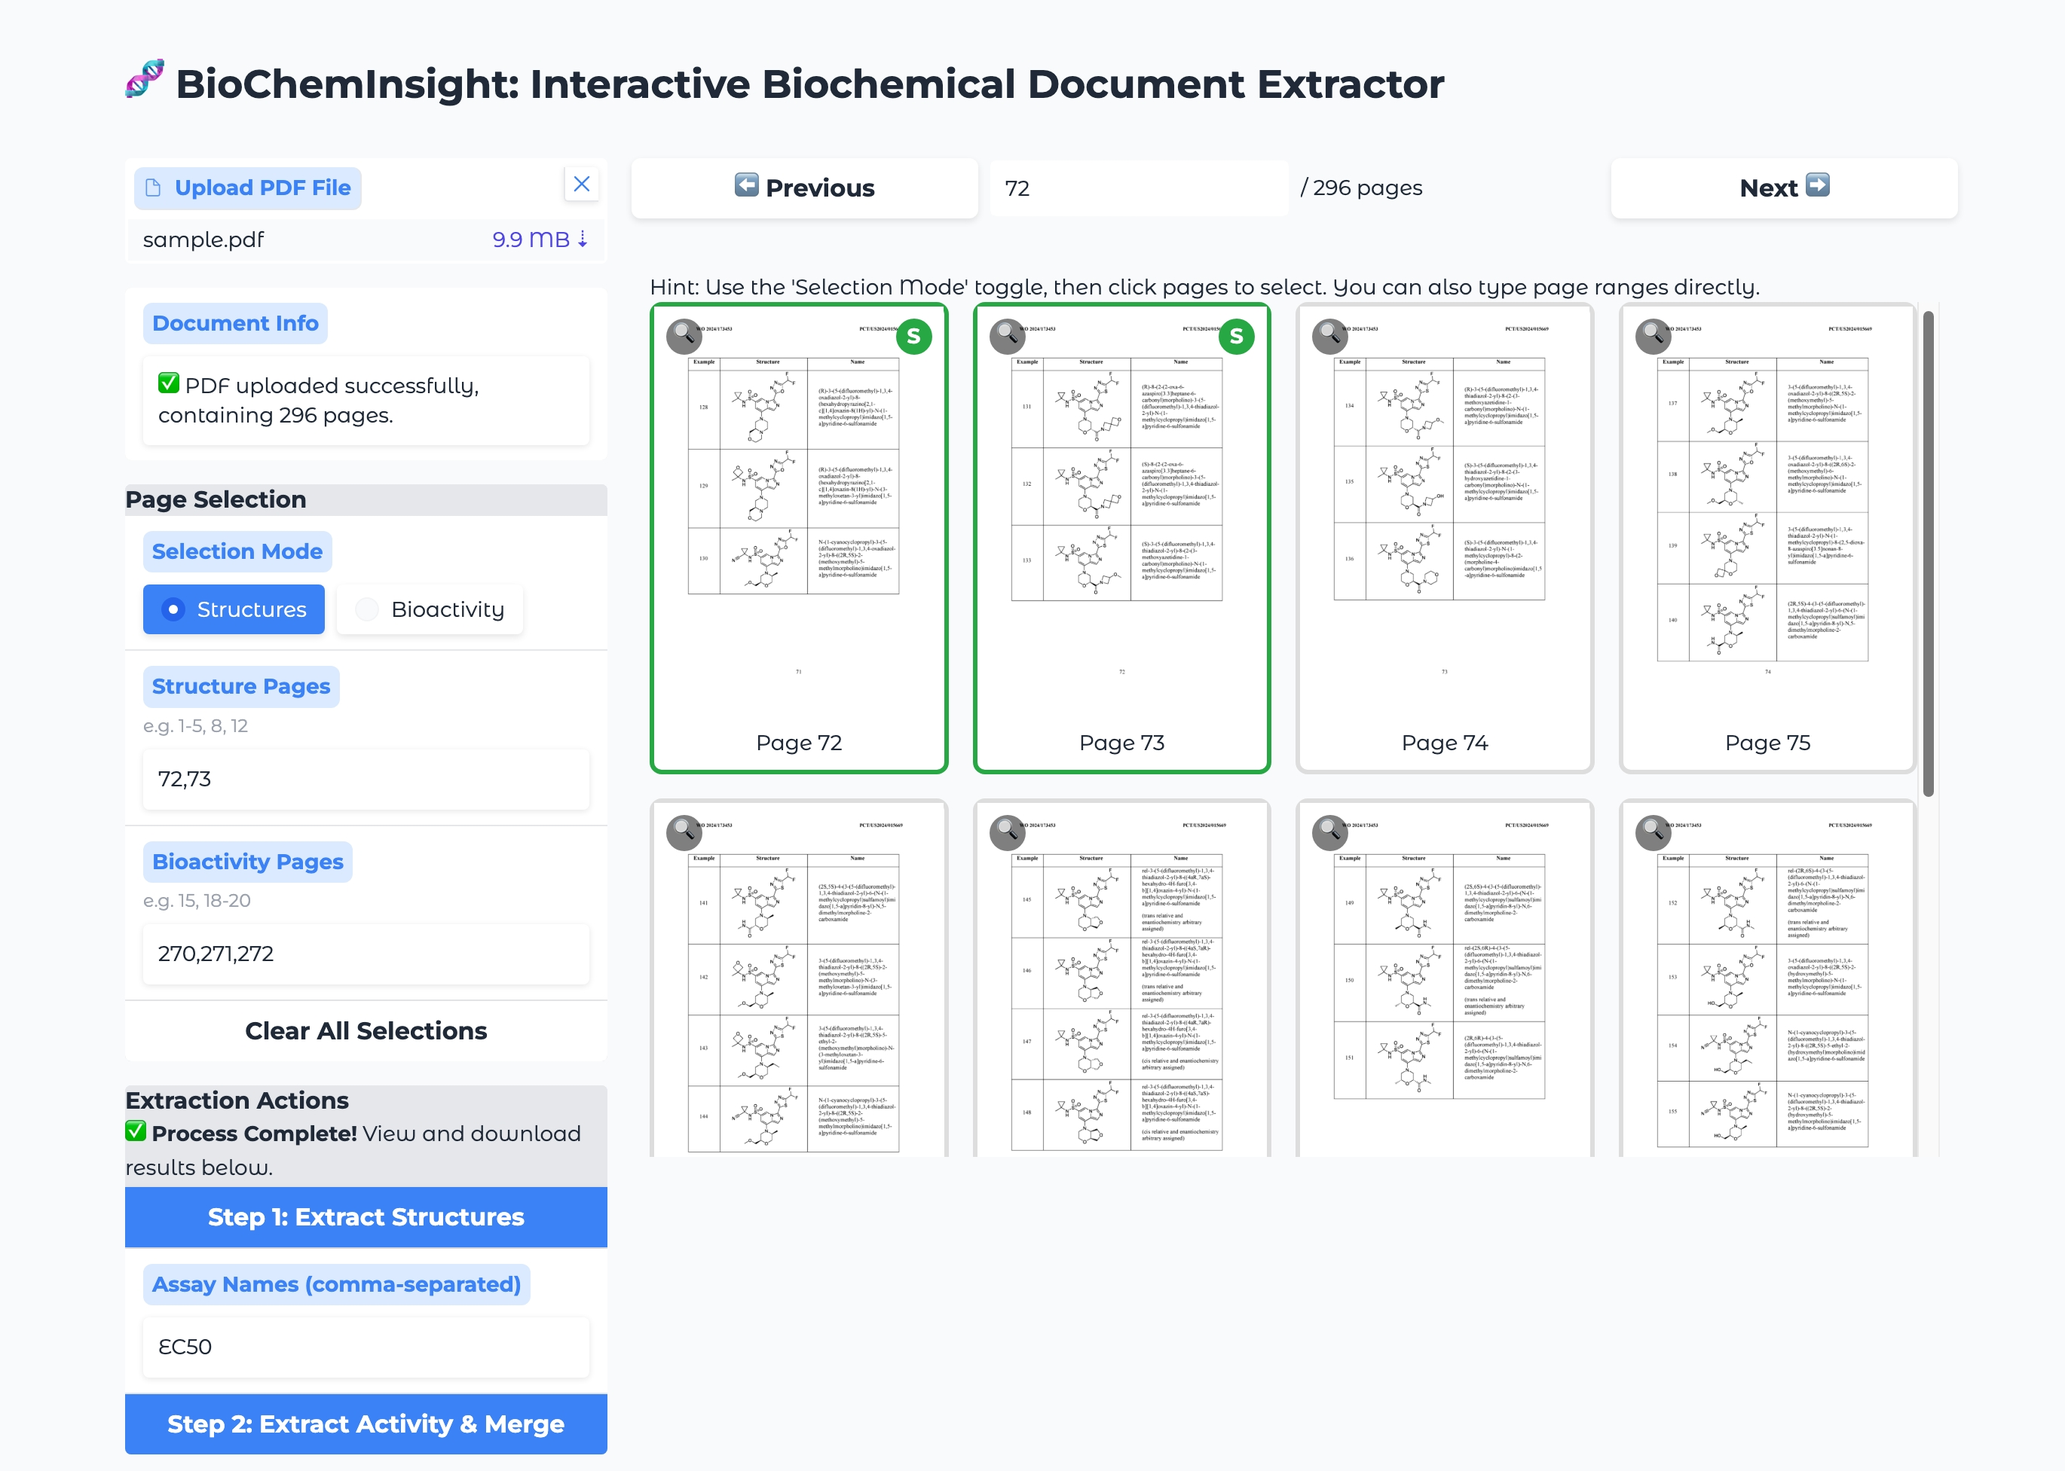
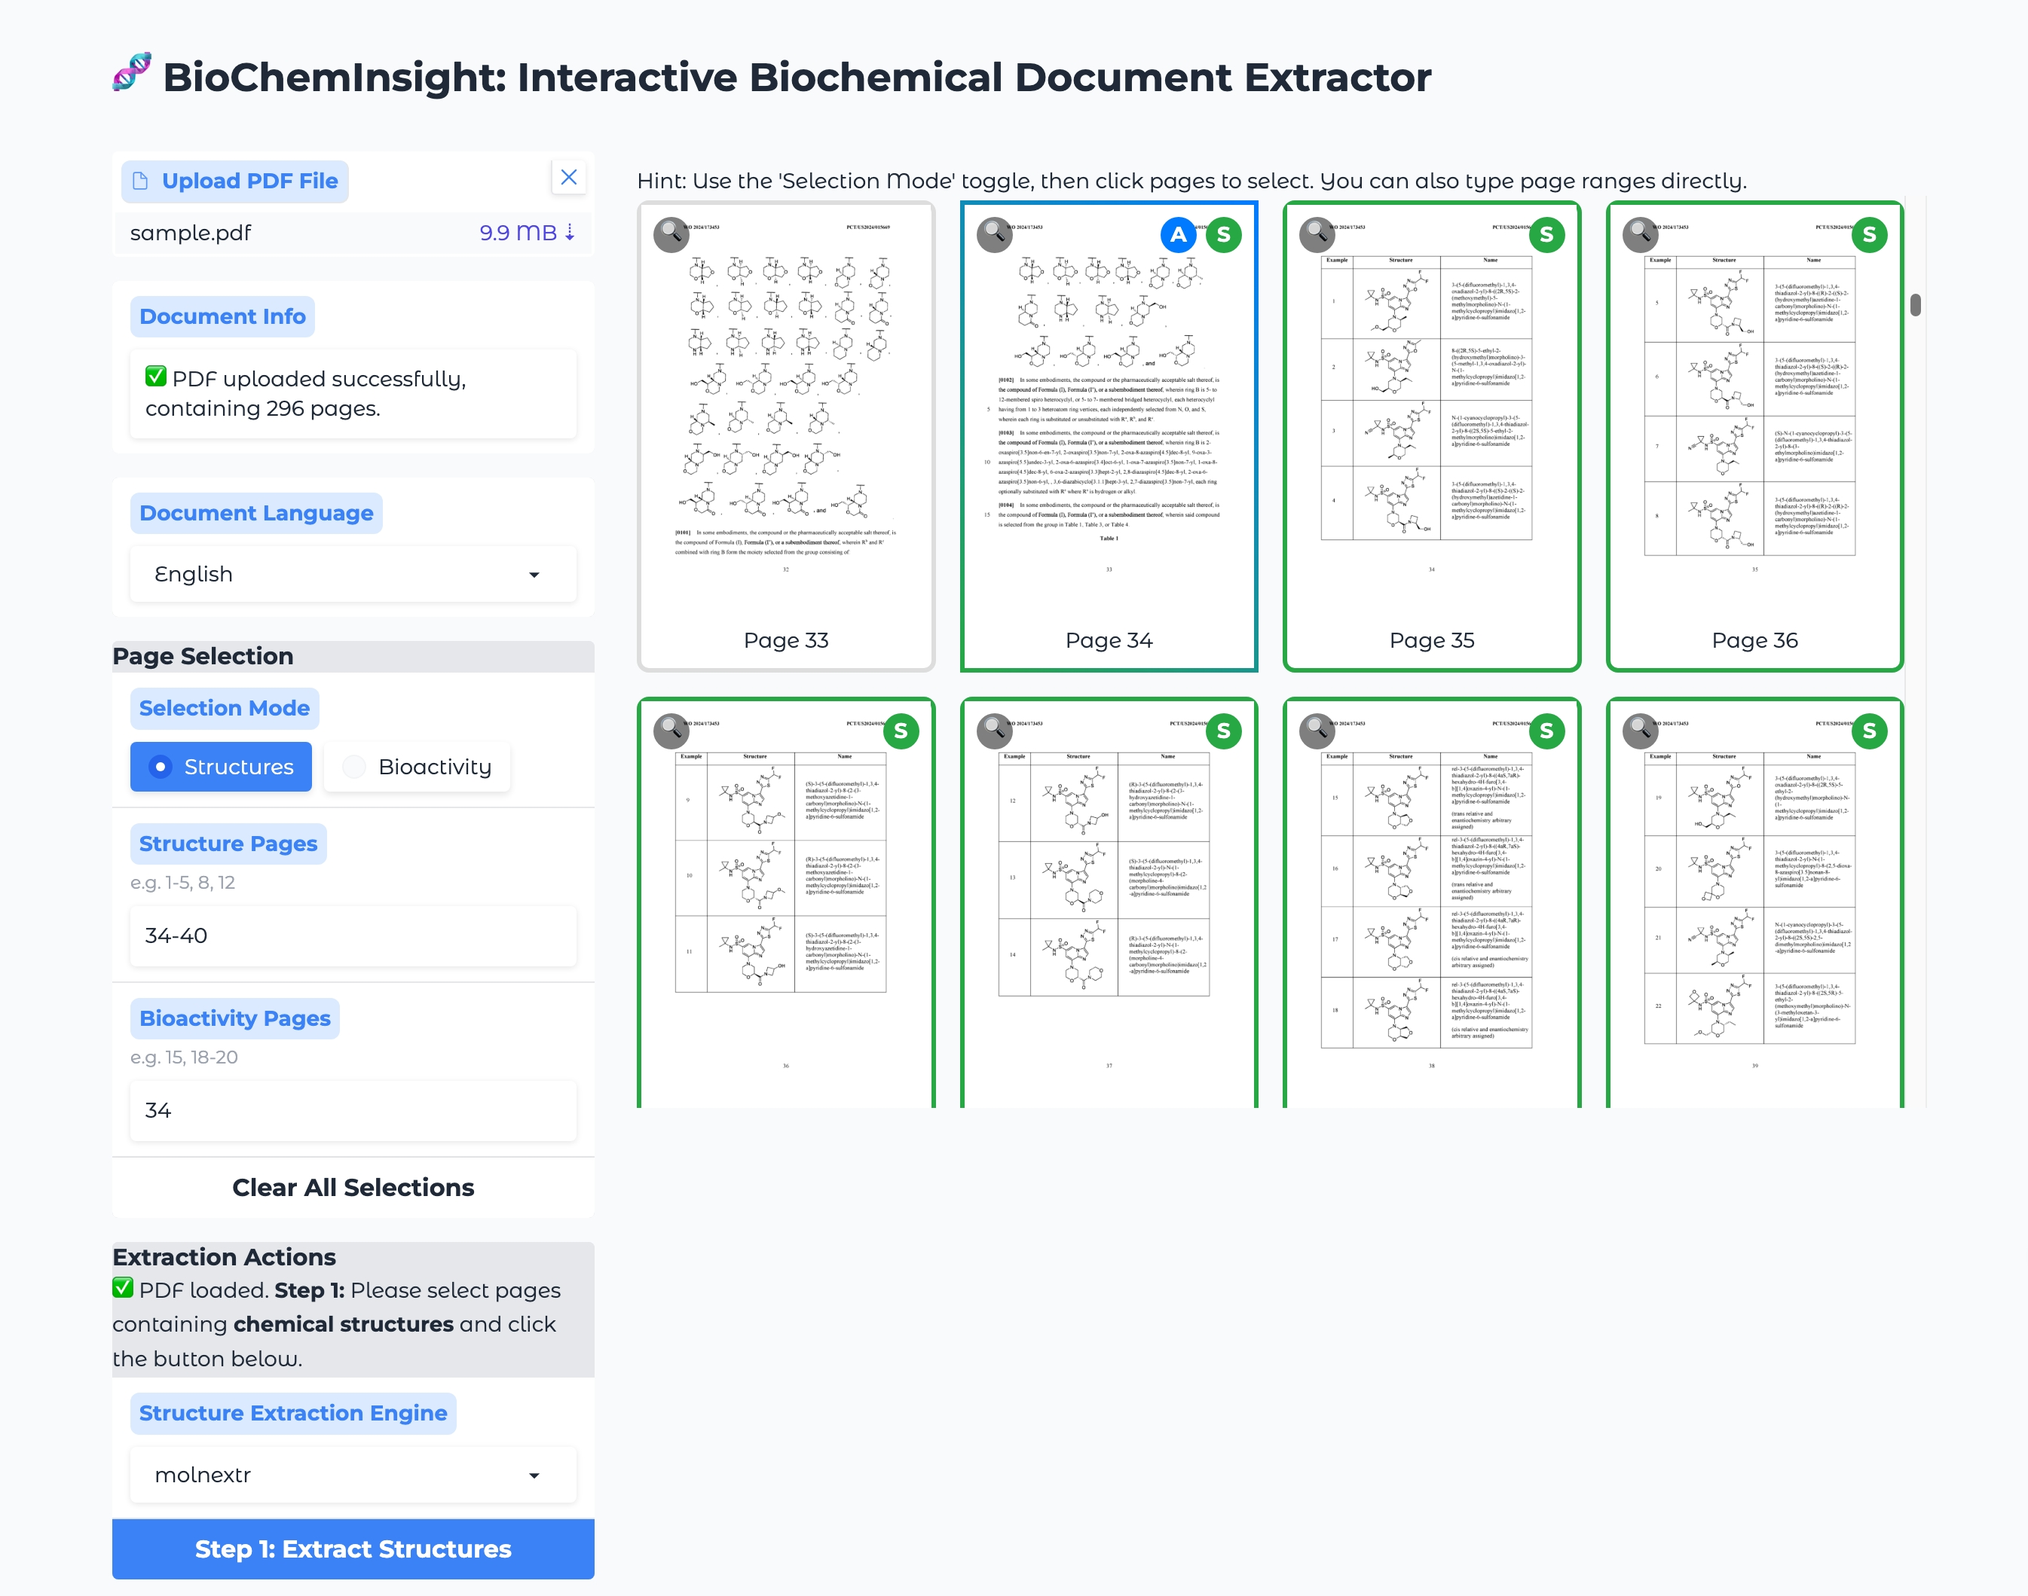
Simplify PDF page selection and gallery rendering

diff --git a/app.py b/app.py
@@ -134,7 +134,8 @@ class BioChemInsightApp:
                 except ValueError: continue
         return sorted(list(pages))
     
-    def _generate_pdf_gallery(self, start_page: int, pages_per_view: int, total_pages: int, struct_pages_str: str, assay_pages_str: str) -> str:
+    def _generate_pdf_gallery(self, total_pages: int, struct_pages_str: str, assay_pages_str: str) -> str:
+        """Generates the HTML gallery for ALL pages of the PDF."""
         if not self.current_pdf_path or not os.path.exists(self.current_pdf_path):
             return "<div class='center-placeholder'>Please upload a valid PDF file first</div>"
         
@@ -143,12 +144,10 @@ class BioChemInsightApp:
             struct_pages = set(self.parse_pages_input(struct_pages_str))
             assay_pages = set(self.parse_pages_input(assay_pages_str))
             
-            start_page = max(1, min(start_page, total_pages))
-            end_page = min(start_page + pages_per_view - 1, total_pages)
-            
             gallery_html = """<div class="gallery-wrapper"><div class="selection-info-bar"><span style="font-weight: 500;">Hint: Use the 'Selection Mode' toggle, then click pages to select. You can also type page ranges directly.</span></div></div><div id="gallery-container" class="gallery-container">"""
             
-            for page_num in range(start_page, end_page + 1):
+            # Loop through all pages instead of a slice
+            for page_num in range(1, total_pages + 1):
                 page = doc[page_num - 1]
                 low_res_pix = page.get_pixmap(matrix=fitz.Matrix(1.5, 1.5))
                 img_base64 = base64.b64encode(low_res_pix.tobytes("png")).decode()
@@ -189,19 +188,15 @@ class BioChemInsightApp:
             print(f"Error getting high-res page: {e}")
             return ""
 
-    def update_gallery_view(self, page_input: int, total_pages: int, struct_pages_str: str, assay_pages_str: str) -> str:
-        # Returns only the gallery HTML
+    def update_gallery_view(self, total_pages: int, struct_pages_str: str, assay_pages_str: str) -> str:
+        """Wrapper to generate the full gallery view."""
         if not self.current_pdf_path: return "<div class='center-placeholder'>Please upload a PDF file first</div>"
-        try:
-            start_page = int(page_input)
-            gallery_html = self._generate_pdf_gallery(start_page, 12, total_pages, struct_pages_str, assay_pages_str)
-            return gallery_html
-        except (ValueError, TypeError):
-            gallery_html = self._generate_pdf_gallery(1, 12, total_pages, struct_pages_str, assay_pages_str)
-            return gallery_html
+        gallery_html = self._generate_pdf_gallery(total_pages, struct_pages_str, assay_pages_str)
+        return gallery_html
 
-    def clear_all_selections(self, current_page_num: int, total_pages_num: int) -> tuple:
-        gallery_html = self.update_gallery_view(current_page_num, total_pages_num, "", "")
+    def clear_all_selections(self, total_pages_num: int) -> tuple:
+        """Clears selections and re-renders the full gallery."""
+        gallery_html = self.update_gallery_view(total_pages_num, "", "")
         return "", "", gallery_html
     
     def _run_pipeline(self, args: List[str], clear_output: bool = True) -> str:
@@ -226,7 +221,7 @@ class BioChemInsightApp:
             print(f"Error: 'pipeline.py' not found.")
             raise
 
-    def extract_structures(self, struct_pages_input: str) -> tuple:
+    def extract_structures(self, struct_pages_input: str, engine_input: str, lang_input: str) -> tuple:
         """Runs Step 1 (Structure Extraction) and updates the UI."""
         if not self.current_pdf_path:
             return "❌ Please upload a PDF file first", None, None, gr.update(visible=False), "Please upload a PDF to begin.", gr.update(visible=False), gr.update(visible=False)
@@ -234,7 +229,7 @@ class BioChemInsightApp:
             return "❌ Please select pages to process for structures.", None, None, gr.update(visible=False), "Please select pages containing chemical structures.", gr.update(visible=False), gr.update(visible=False)
             
         try:
-            args = ["--structure-pages", struct_pages_input, "--engine", "molnextr"]
+            args = ["--structure-pages", struct_pages_input, "--engine", engine_input, "--lang", lang_input]
             output_dir = self._run_pipeline(args, clear_output=True)
             
             structures_file = os.path.join(output_dir, "structures.csv")
@@ -251,14 +246,14 @@ class BioChemInsightApp:
         except Exception as e:
             return f"❌ Error during structure extraction: {str(e)}", None, None, gr.update(visible=False), "An unexpected error occurred. See console for details.", gr.update(visible=False), gr.update(visible=False)
 
-    def extract_activity_and_merge(self, assay_pages_input: str, structures_data: list, assay_names: str) -> tuple:
+    def extract_activity_and_merge(self, assay_pages_input: str, structures_data: list, assay_names: str, lang_input: str) -> tuple:
         """Runs Step 2 (Activity Extraction and Merge) and updates the UI."""
         if not assay_pages_input: return "❌ Select activity pages.", None, None, None, gr.update(visible=False), gr.update(visible=False), "Please select pages with activity data."
         if not structures_data: return "⚠ Run Step 1 first.", None, None, None, gr.update(visible=False), gr.update(visible=False), "Structure data missing. Please run Step 1 first."
         if not assay_names: return "❌ Enter assay names.", None, None, None, gr.update(visible=False), gr.update(visible=False), "Please provide the names of the assays to extract (e.g., IC50)."
 
         try:
-            args = ["--assay-pages", assay_pages_input, "--assay-names", assay_names]
+            args = ["--assay-pages", assay_pages_input, "--assay-names", assay_names, "--lang", lang_input]
             output_dir = self._run_pipeline(args, clear_output=False)
             
             merged_file = os.path.join(output_dir, "merged.csv")
@@ -338,14 +333,14 @@ class BioChemInsightApp:
         return self._prepare_download_payload("meta.json", "application/json", json_bytes)
 
     def on_upload(self, pdf_file: gr.File) -> tuple:
+        """Handles PDF upload and generates the initial full gallery."""
         info, pages = self.get_pdf_info(pdf_file)
-        gallery_html = self.update_gallery_view(1, pages, "", "")
+        gallery_html = self.update_gallery_view(pages, "", "")
         guidance = "✅ PDF loaded. **Step 1:** Please select pages containing **chemical structures** and click the button below."
         
+        # Updated return tuple to remove components related to page navigation
         return (
-            info, pages, 1, gallery_html,
-            gr.update(value=1), # page_input
-            f"/ {pages} pages", # page_total_display
+            info, pages, gallery_html,
             None, None, None, "", "",
             "Status...", guidance, gr.update(value=None),
             gr.update(visible=False), gr.update(visible=False), gr.update(visible=False), 
@@ -353,11 +348,11 @@ class BioChemInsightApp:
         )
 
     def create_interface(self):
-        # --- Adjusted CSS for better navigation alignment ---
+        # --- CSS can be simplified by removing page navigation styles ---
         css = """
         #magnify-page-input, #magnified-image-output { display: none; }
         .center-placeholder { text-align: center; padding: 50px; border: 2px dashed #ccc; border-radius: 10px; margin-top: 20px; }
-        .gallery-container { display: grid; grid-template-columns: repeat(auto-fill, minmax(180px, 1fr)); gap: 16px; max-height: 75vh; overflow-y: auto; }
+        .gallery-container { display: grid; grid-template-columns: repeat(auto-fill, minmax(180px, 1fr)); gap: 16px; max-height: 80vh; overflow-y: auto; } /* Increased height */
         .page-item { border: 3px solid #ddd; border-radius: 8px; cursor: pointer; position: relative; background: white; transition: border-color 0.2s; }
         .page-item.selected-struct { border-color: #28a745; }
         .page-item.selected-assay { border-color: #007bff; }
@@ -369,8 +364,6 @@ class BioChemInsightApp:
         .page-item .page-label { text-align: center; padding: 8px; }
         #magnify-modal { display: none; position: fixed; z-index: 1000; left: 0; top: 0; width: 100%; height: 100%; overflow: auto; background-color: rgba(0,0,0,0.8); justify-content: center; align-items: center; }
         #magnify-modal img { max-width: 90%; max-height: 90%; } #magnify-modal .close-btn { position: absolute; top: 20px; right: 35px; color: #f1f1f1; font-size: 40px; font-weight: bold; cursor: pointer; }
-        .page-navigation { display: flex; justify-content: center; align-items: center; gap: 8px; margin-bottom: 10px; }
-        .page-total-display { min-width: 70px; text-align: left; }
         """
         
         js_script = """
@@ -485,8 +478,8 @@ class BioChemInsightApp:
         with gr.Blocks(theme=gr.themes.Soft(primary_hue="blue"), title="BioChemInsight", css=css, js=js_script) as interface:
             gr.HTML("""<div id="magnify-modal" onclick="closeMagnifyView()"><span class="close-btn">&times;</span><img id="magnified-img"></div>""")
             gr.Markdown("<h1>🧬 BioChemInsight: Interactive Biochemical Document Extractor</h1>")
-            
-            total_pages, current_page = gr.State(0), gr.State(1)
+
+            total_pages = gr.State(0)
             structures_data, merged_data, merged_path = gr.State(None), gr.State(None), gr.State(None)
             
             magnify_page_input = gr.Number(elem_id="magnify-page-input", visible=True, interactive=True)
@@ -500,6 +493,14 @@ class BioChemInsightApp:
                     pdf_info = gr.Textbox(label="Document Info", interactive=False)
                     
                     with gr.Group():
+                         lang_input = gr.Dropdown(
+                            label="Document Language",
+                            choices=[("English", "en"), ("Chinese", "ch")],
+                            value="en",
+                            interactive=True
+                        )
+
+                    with gr.Group():
                         gr.Markdown("<h4>Page Selection</h4>")
                         selection_mode = gr.Radio(["Structures", "Bioactivity"], label="Selection Mode", value="Structures", elem_id="selection-mode-radio", interactive=True)
                         struct_pages_input = gr.Textbox(label="Structure Pages", elem_id="struct-pages-input", info="e.g. 1-5, 8, 12")
@@ -509,17 +510,23 @@ class BioChemInsightApp:
                     with gr.Group():
                         gr.Markdown("<h4>Extraction Actions</h4>")
                         guidance_text = gr.Markdown("Please upload a PDF to begin.")
+                        # engine_input = gr.Radio(
+                        #     label="Structure Extraction Engine",
+                        #     choices=['molnextr', 'molscribe', 'molvec'],
+                        #     value='molnextr',
+                        #     interactive=True
+                        # )
+                        engine_input = gr.Dropdown(
+                            label="Structure Extraction Engine",
+                            choices=['molnextr', 'molscribe', 'molvec'],
+                            value='molnextr',
+                            interactive=True
+                        )
                         struct_btn = gr.Button("Step 1: Extract Structures", variant="primary")
                         assay_names_input = gr.Textbox(label="Assay Names (comma-separated)", placeholder="e.g., IC50, Ki, EC50", visible=False)
                         assay_btn = gr.Button("Step 2: Extract Activity", visible=False, variant="primary")
 
                 with gr.Column(scale=3):
-                    # --- Updated page navigation UI for better alignment ---
-                    with gr.Row(elem_classes="page-navigation"):
-                        prev_btn = gr.Button("⬅ Previous")
-                        page_input = gr.Number(label=None, value=1, precision=0, interactive=True, container=False)
-                        page_total_display = gr.Markdown("/ 0 pages", elem_classes="page-total-display")
-                        next_btn = gr.Button("Next ➡")
                     gallery = gr.HTML("<div class='center-placeholder'>PDF previews will appear here.</div>")
 
             gr.Markdown("---")
@@ -533,45 +540,30 @@ class BioChemInsightApp:
                 merged_dl_btn = gr.Button("Download Merged Results (CSV)", visible=False)
                 meta_dl_btn = gr.Button("Download Metadata (JSON)", visible=False)
 
+            # Updated outputs list for the upload event
             pdf_input.upload(self.on_upload, [pdf_input], [
-                pdf_info, total_pages, current_page, gallery,
-                page_input, page_total_display,
+                pdf_info, total_pages, gallery,
                 structures_data, merged_data, merged_path, struct_pages_input, assay_pages_input,
                 status_display, guidance_text, results_display,
                 struct_dl_csv_btn, merged_dl_btn, meta_dl_btn,
                 assay_btn, assay_names_input
             ])
 
-            gallery_inputs = [current_page, total_pages, struct_pages_input, assay_pages_input]
-            clear_btn.click(self.clear_all_selections, [current_page, total_pages], [struct_pages_input, assay_pages_input, gallery])
-
-            def update_nav_and_view(page_num, tot_pg, s_pg, a_pg):
-                try:
-                    page_num = int(page_num)
-                except (ValueError, TypeError):
-                    page_num = 1
-                new_page_num = max(1, min(page_num, tot_pg if tot_pg > 0 else 1))
-                gallery_html = self.update_gallery_view(new_page_num, tot_pg, s_pg, a_pg)
-                # --- Update the label on the Number component itself ---
-                return new_page_num, gallery_html, gr.update(value=new_page_num), f"/ {tot_pg} pages"
-            
-            nav_outputs = [current_page, gallery, page_input, page_total_display]
-            page_input.submit(update_nav_and_view, [page_input, total_pages, struct_pages_input, assay_pages_input], nav_outputs)
-            prev_btn.click(lambda c, t, s, a: update_nav_and_view(c - 12, t, s, a), gallery_inputs, nav_outputs)
-            next_btn.click(lambda c, t, s, a: update_nav_and_view(c + 12, t, s, a), gallery_inputs, nav_outputs)
+            # Updated inputs list for the clear button event
+            clear_btn.click(self.clear_all_selections, [total_pages], [struct_pages_input, assay_pages_input, gallery])
             
             magnify_page_input.input(self.get_magnified_page_data, [magnify_page_input], [magnified_image_output])
             magnified_image_output.change(None, [magnified_image_output], None, js="(d) => openMagnifyView(d)")
             
             struct_btn.click(
                 self.extract_structures, 
-                [struct_pages_input], 
+                [struct_pages_input, engine_input, lang_input], 
                 [status_display, structures_data, results_display, struct_dl_csv_btn, guidance_text, assay_btn, assay_names_input]
             )
             
             assay_btn.click(
                 self.extract_activity_and_merge,
-                [assay_pages_input, structures_data, assay_names_input],
+                [assay_pages_input, structures_data, assay_names_input, lang_input],
                 [status_display, merged_data, results_display, merged_path, merged_dl_btn, meta_dl_btn, guidance_text]
             ).then(
                 lambda: gr.update(visible=False), 
